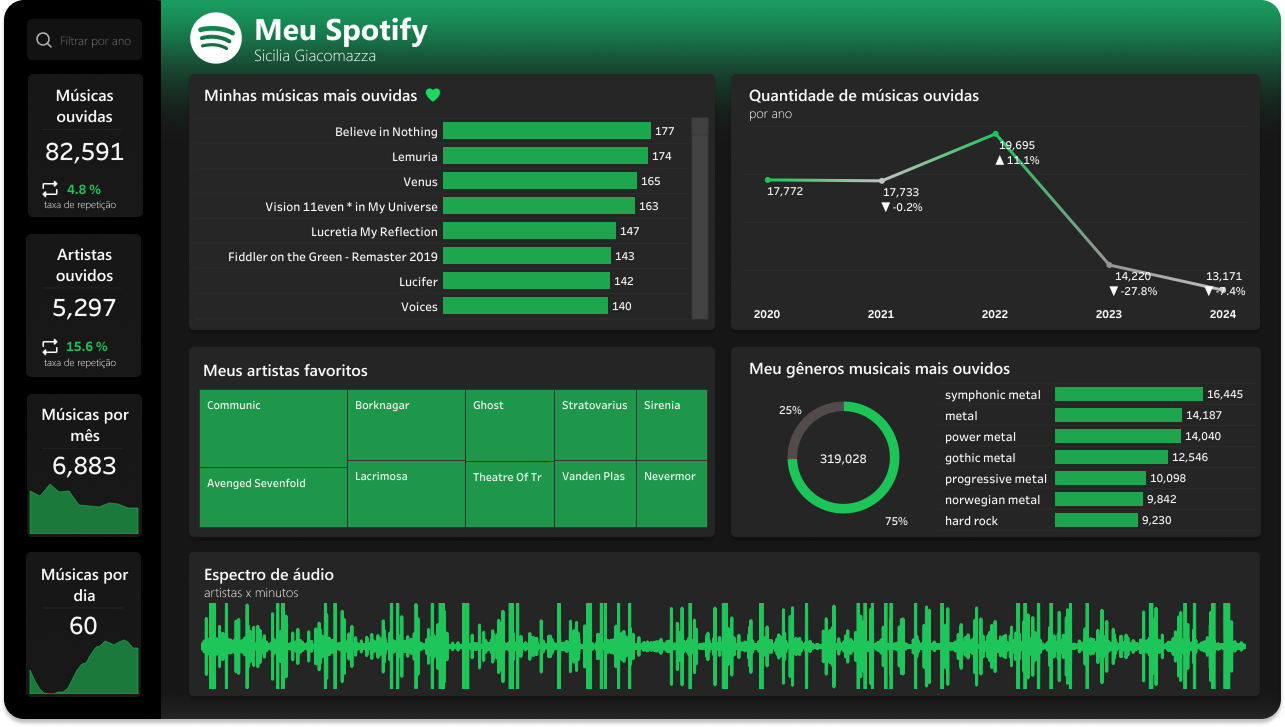
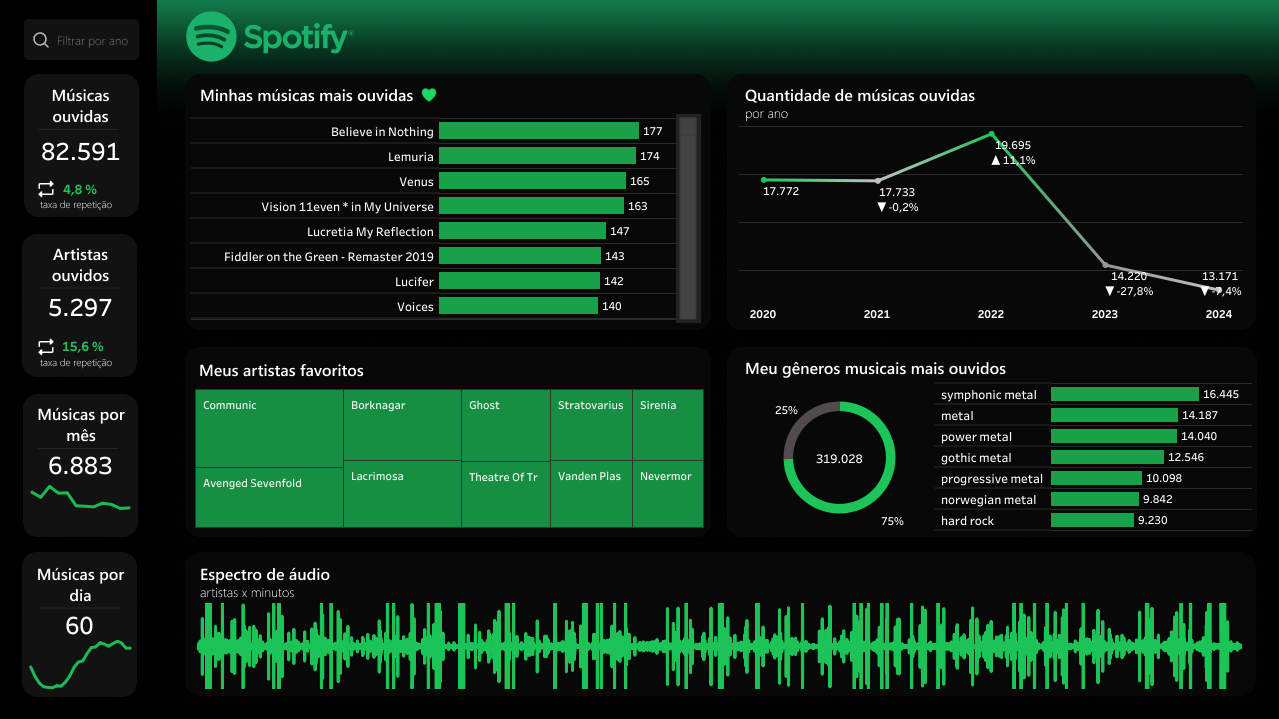
update

diff --git a/assets/css/style.css b/assets/css/style.css
@@ -2028,6 +2028,36 @@ textarea.form-input::-webkit-resizer { display: none; }
     */
   }
   
+/* ---------------------- */
+/*        FOOTER         */
+/* ---------------------- */
+footer {
+  width: 100%;
+  background-color: #121212;
+  text-align: center;
+  padding: 10px;
+  font-size: 11px;
+  color: #f3f3f3;
+  overflow: hidden; /* impede transbordo, mas pode cortar texto se a janela for pequena */
+}
+
+footer p {
+  display: inline-block;
+  white-space: nowrap;
+  word-break: normal; /* não quebra em caracteres especiais */
+  overflow-wrap: normal;
+  margin: 0; /* para garantir que não haja espaços extras */
+}
+
+footer a {
+  color: #e18085;
+  text-decoration: none;
+}
+
+footer a:hover {
+  text-decoration: underline;
+}
+
 
 
 }

diff --git a/index.html b/index.html
@@ -1055,5 +1055,13 @@ data-gallery-category="tableau"
     src="https://unpkg.com/ionicons@5.5.2/dist/ionicons/ionicons.js"
   ></script>
 
+  <footer>
+    <p><span>Big thanks to <a href="https://github.com/codewithsadee" target="_blank">@codewithsadee</a> for the core structure of this page and <a href="https://www.instagram.com/ferreirabidesign/" target="_blank">@ferreirabidesign</a> for design inspiration.</span></p>
+  </footer>
+  
+  
+  
+  
+  
 </body>
 </html>
